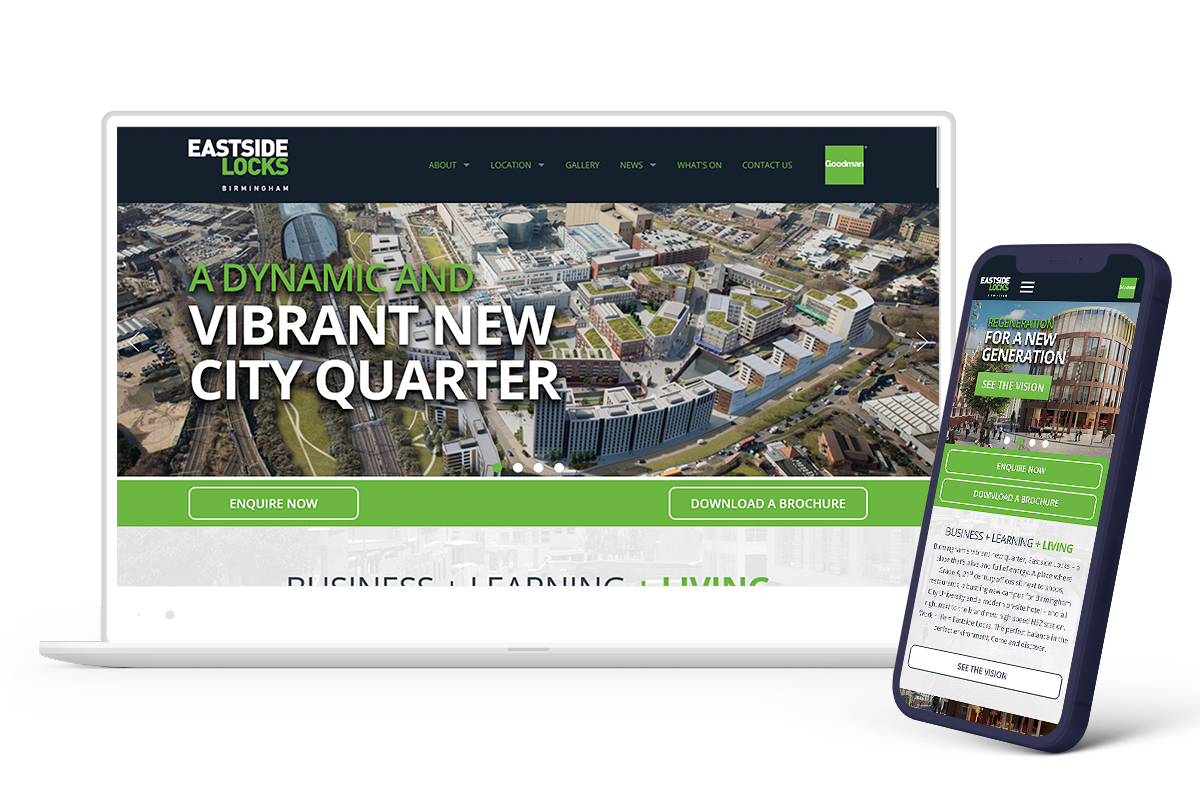
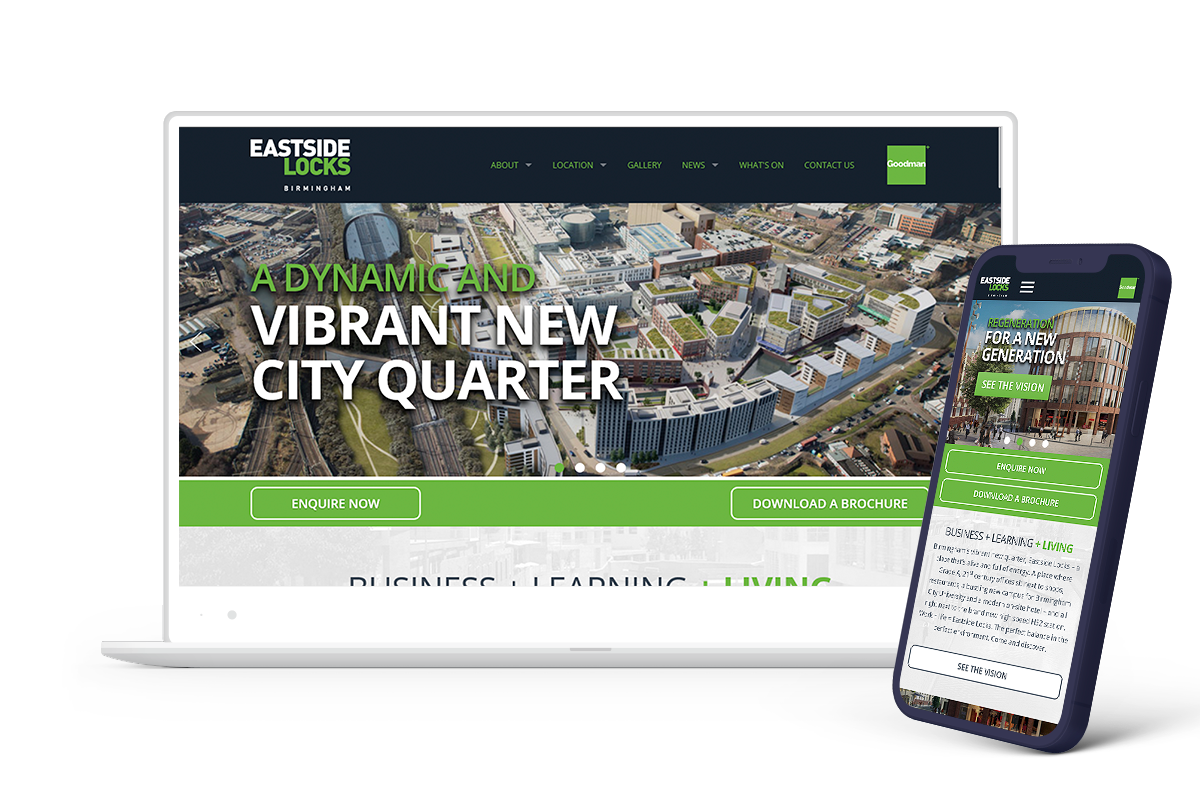
refactor work landing

Changed region(s): [[0.0308, 0.125, 0.8633, 0.8438], [0.2467, 0.7188, 0.7092, 0.75]]

diff --git a/src/styles/custom-base-styles.css b/src/styles/custom-base-styles.css
@@ -2,7 +2,7 @@
     /* https://divmagic.com/tools/color-converter */
     /* --[type: color]- */
     :root {
-        --headerheight: 88px; /* 24px + 40px +24px */
+        --headerheight: 72px; /* 16px + 40px +16px */
         --smheaderheight: 64px; /* 16px + 32px +16px */
         --container-width-max: 1200px;
         --container-width-sm: 640px;
@@ -12,6 +12,11 @@
 
         --color-page__bg: 250 250 250; /* zinc-50 */
         --color-page__bg--contrast: 250 250 250; /* putty | https://www.colorhexa.com/f5f4f0 */
+
+        --swiper-theme-color: theme('colors.accent.DEFAULT') !important;
+        /* --swiper-pagination-color: theme('colors.white'); */
+        --swiper-pagination-bullet-inactive-color: white;
+        --swiper-pagination-bullet-inactive-opacity: 1;
 
         --color-banner: transparent; /* transparent */
         --color-banner-up: 255 255 255; /* white */
